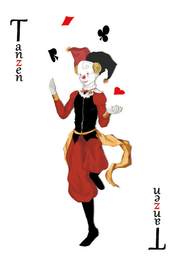
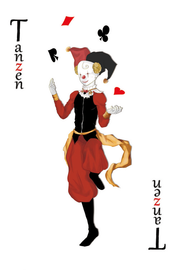
Enlarge Tanzen lowercase lettering

Changed region(s): [[0.8333, 0.6519, 0.9167, 0.8593], [0.0833, 0.1481, 0.1389, 0.3259]]

diff --git a/shared/game-client/densho-revision.ts b/shared/game-client/densho-revision.ts
@@ -1,2 +1,2 @@
 // Generated by build-densho-cards.mjs; do not edit.
-export const DENSHO_ASSET_REVISION = 'f34a9765d4de';
+export const DENSHO_ASSET_REVISION = '515b48f6fc3e';

diff --git a/shared/game-client/assets/densho/README.md b/shared/game-client/assets/densho/README.md
@@ -10,8 +10,9 @@ All suits, including those within court illustrations, keep their positions.
 The ace of spades scan is preserved as supplied; only its derived renders
 widen the central black spade and proportionally enlarge the two corner spades.
 The gold illustration and lettering retain their original position and proportions.
-The Tanzen scan is also preserved; its derived renders slightly thicken only
-the two vertical letter labels, leaving the figure and suit symbols unchanged.
+The Tanzen scan is also preserved; its derived renders enlarge the thin
+`anzen` letters by 20% and slightly thicken the two vertical labels. The large
+`T`, figure, and suit symbols stay unchanged.
 
 `shared/game-client/card-art.ts` owns the artwork selection.
 `densho-rendering.json` owns the print-trim rectangles and output widths.
